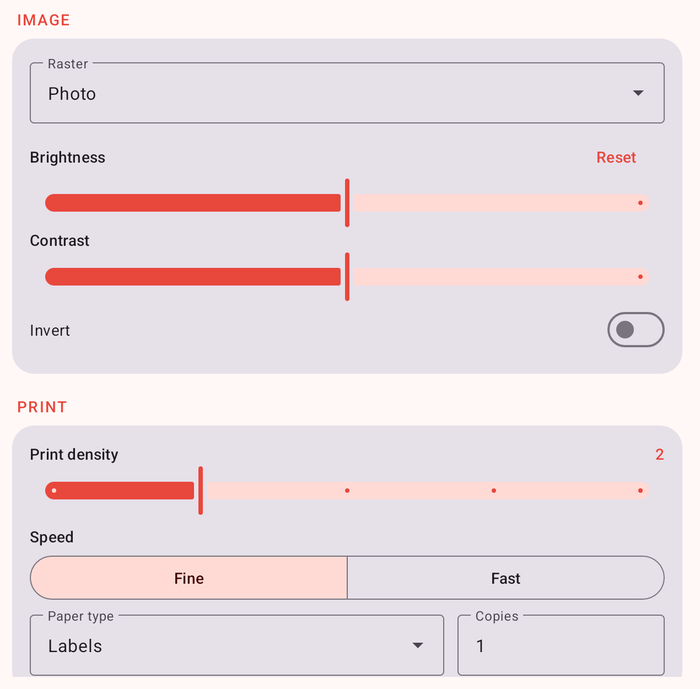
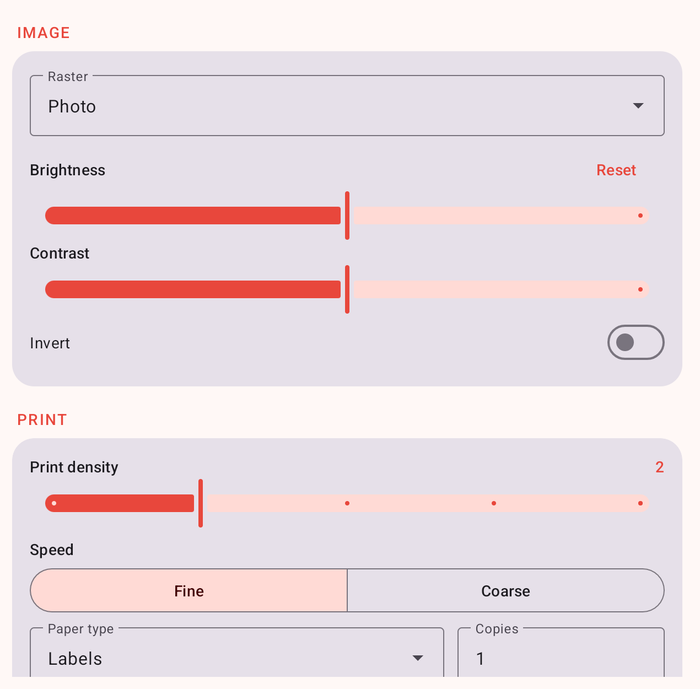
Docs for 1.3.9: new screenshots, debug console, backlog for 1.4.0
All README screenshots retaken on the tablet emulator (mode bar with the booth
button, nine raster looks with the measured tone curve, settings with Coarse,
debug console). Backlog: tone target as a debug-console setting for 1.4.0.

diff --git a/README.md b/README.md
@@ -78,8 +78,9 @@ measurement. The intended darkness is linear in the photo tone (tone 128 prints 
 from a tone-sweep print, darker targets closer to the screen's sRGB curve looked grey and flat on
 thermal paper.
 
-Halftone dots and TV scanlines still use a simple dot-gain formula; the coarse looks print close to
-their nominal tone and are not corrected.
+Halftone dots and TV scanlines still use a simple dot-gain formula. Line screen, Macintosh, Amiga
+and fax are built from thick lines or blocks of dots, print close to their nominal tone and are not
+corrected.
 
 ## Settings
 
@@ -173,21 +174,23 @@ cannot replace each other.
 Long-press the *B21 Print* title. With a printer connected, the console sends raw text commands to
 the BLE characteristic and shows every reply. It also offers:
 
+<img src="docs/debug-console.png" width="45%" alt="Debug console">
+
 - **Test chart**: loads a chart sized to the current photo area (window, instant frame or circle)
   into the preview, as if it were a cropped photo: tone wedge, gradient, dither patches, line and
   checkerboard resolution, Siemens star, rings and microtext. Works without a printer.
-- **Printer diagnostics**: queries RFID, anti-fake and status data and writes the raw replies to
-  the log at the bottom of the main screen.
 - **Calibration**: a 5 × 5 chart of flat tones, already dithered and printed dot for dot without
   any image processing, with the density and speed printed on it. `tools/calib.py` reads a photo of
   it and reports how dark each patch printed; those numbers are the tables in `PrintCurve.kt`.
 - **Tone sweep**: prints the current photo in four vertical stripes with different tone targets
   (gamma 1.0, 1.3, 1.6, 2.0, labelled at the top), to choose the target from one print.
-- **Log** with copy and clear buttons; it also shows the app's own log lines while open.
+- **Printer diagnostics**: queries RFID, anti-fake and status data and writes the raw replies to
+  the console log and the log at the bottom of the main screen.
 - **Flash firmware**: sends a `.bin` firmware image over Bluetooth. The version is taken from the
   file name (e.g. `B21_Pro_3.10.bin` → 3.10). The printer verifies the image before committing it;
   a rejected or interrupted transfer leaves the old firmware running. Do not switch the printer off
   during the update.
+- **Log** with copy and clear buttons; it also shows the app's own log lines while open.
 
 <img src="docs/test-chart.png" width="45%" alt="Test chart on a Memory Film label">
 

diff --git a/backlog.md b/backlog.md
@@ -2,24 +2,29 @@
 
 Open items, roughly in order of priority.
 
+## 1.4.0
+
+- **Tone target in the debug console.** Make the gamma of `PrintCurve` an adjustable, remembered
+  setting there (e.g. a slider from 0.8 to 2.0, default 1.0), so the curve can be re-tuned on paper
+  without a new build. The tone sweep would then centre on the current value.
+
 ## Fixes
 
 - **Memory Film bleed.** Overscan is off for window labels since 1.3.1, but the default 0.6 mm
   bleed still prints onto the frame, which is thermal paper too. Check on a print whether it shows
   and whether the offset fine-tuning makes it unnecessary.
-- **Fast speed for photos.** Tones are corrected since 1.3.6, but the texture stays coarse. Decide
+- **Coarse mode for photos.** Tones are corrected since 1.3.6, but the texture stays wormy. Decide
   after a print whether photos and the booth should always use fine.
 
 ## Print tuning (needs paper)
 
-- Fast speed densities 2 and 4 are interpolated from 1, 3 and 5.
+- Coarse mode densities 2 and 4 are interpolated from 1, 3 and 5.
 - The tone target (gamma 1.0) was chosen at density 3 with one photo; check it at densities 1 and 5.
 - The shadow end of the measured curves comes from phone photos and is unreliable above ~90 %
   darkness; a flatbed scan of the calibration charts would fix that.
 - Calibrate halftone dots and scanlines the same way; they still use the old dot-gain formula.
-
 - Print the raster looks on real rolls and check tone. Line screen, Macintosh, Amiga and fax skip
-  dot-gain compensation on the assumption that coarse cells print true; they may need a weaker
+  dot-gain compensation on the assumption that blocks and thick lines print true; they may need a
   correction of their own.
 - TV scanlines cannot go darker than about two thirds coverage. Check whether a 5 + 1 band (one
   white row) still shows visible scanlines after dot spread.
@@ -27,7 +32,6 @@ Open items, roughly in order of priority.
 
 ## Ideas
 
-- Refresh the screenshots in `docs/`; they predate the booth button in the mode bar.
 - 1:1 preview zoom (tap the preview) so line screen and scanlines can be judged without moiré from
   the on-screen scaling.
 - Remember the invert switch like the other image settings.

diff --git a/history.md b/history.md
@@ -10,6 +10,7 @@ pipeline.
   in amber. It opens the booth and leaves the current mode selected. Saves a full row on phones.
 - *Fast* is now called *Coarse*, which describes what it does to photos.
 - The version number is shown next to the title.
+- All README screenshots retaken, including the nine raster looks with the measured tone curve.
 
 ## 1.3.8 (2026-10-25)
 
